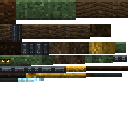
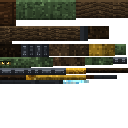
Frost Captain holds his sword upright; Foreman's pickaxe shows
Claude-Session: https://claude.ai/code/session_01CBiBki5Y9c6hbEmPXjm6dA

diff --git a/scripts/models/designs.py b/scripts/models/designs.py
@@ -1173,8 +1173,9 @@ def frost_captain():
     m.part("arm", (-10, 30, 0), "arm", mirror=True)
     m.pair((-12, 12, -2.5), (4, 18, 5), FROST_COAT)
     m.part("blade", (10, 12, 0), "static", parent="arm_l")
-    m.box((9.5, 12, -9), (1, 2, 18), ICE_RAW)
-    m.box((8.5, 11.5, 6), (3, 3, 1), IRON_DARK)
+    m.box((9.5, -8, 3.5), (1.5, 20, 2.5), ICE_RAW)
+    m.box((8, 11, 3), (4.5, 1.5, 3.5), IRON_DARK)
+    m.box((9.5, 12.5, 3.75), (1.5, 3, 2), IRON_DARK)
     m.part("head", (0, 31, 1), "head")
     m.box((-4.5, 31, -4), (9, 9, 8), FROST_SKIN,
           decal={"south": face("#bff4ff", eye_w=2, eye_h=2, eye_row=0.35, gap=2, brow="#0a1420", mask=0.3)})
@@ -1223,8 +1224,10 @@ def foreman():
     m.part("arm", (-11.5, 28, 0), "arm", mirror=True)
     m.pair((-14, 10, -3), (5, 18, 6), MINER_SKIN)
     m.part("pick", (11.5, 11, 0), "static", parent="arm_l")
-    m.box((11, 9, -1), (1.5, 22, 1.5), WOOD)
-    m.box((10, 29, -8), (3, 2, 16), IRON_DARK)
+    m.box((11, 6, 3.5), (1.5, 24, 1.5), WOOD)
+    m.box((10.5, 27, -2.5), (2.5, 2.5, 13), IRON_DARK)
+    m.box((10.5, 26, -3.5), (2.5, 2, 2), IRON_DARK)
+    m.box((10.5, 26, 9.5), (2.5, 2, 2), IRON_DARK)
     m.part("head", (0, 29, 1), "head")
     m.box((-4.5, 29, -3.5), (9, 9, 8), MINER_SKIN,
           decal={"south": face("#ffd25a", eye_w=2, eye_h=2, eye_row=0.4, gap=2, brow="#0e140c")})
